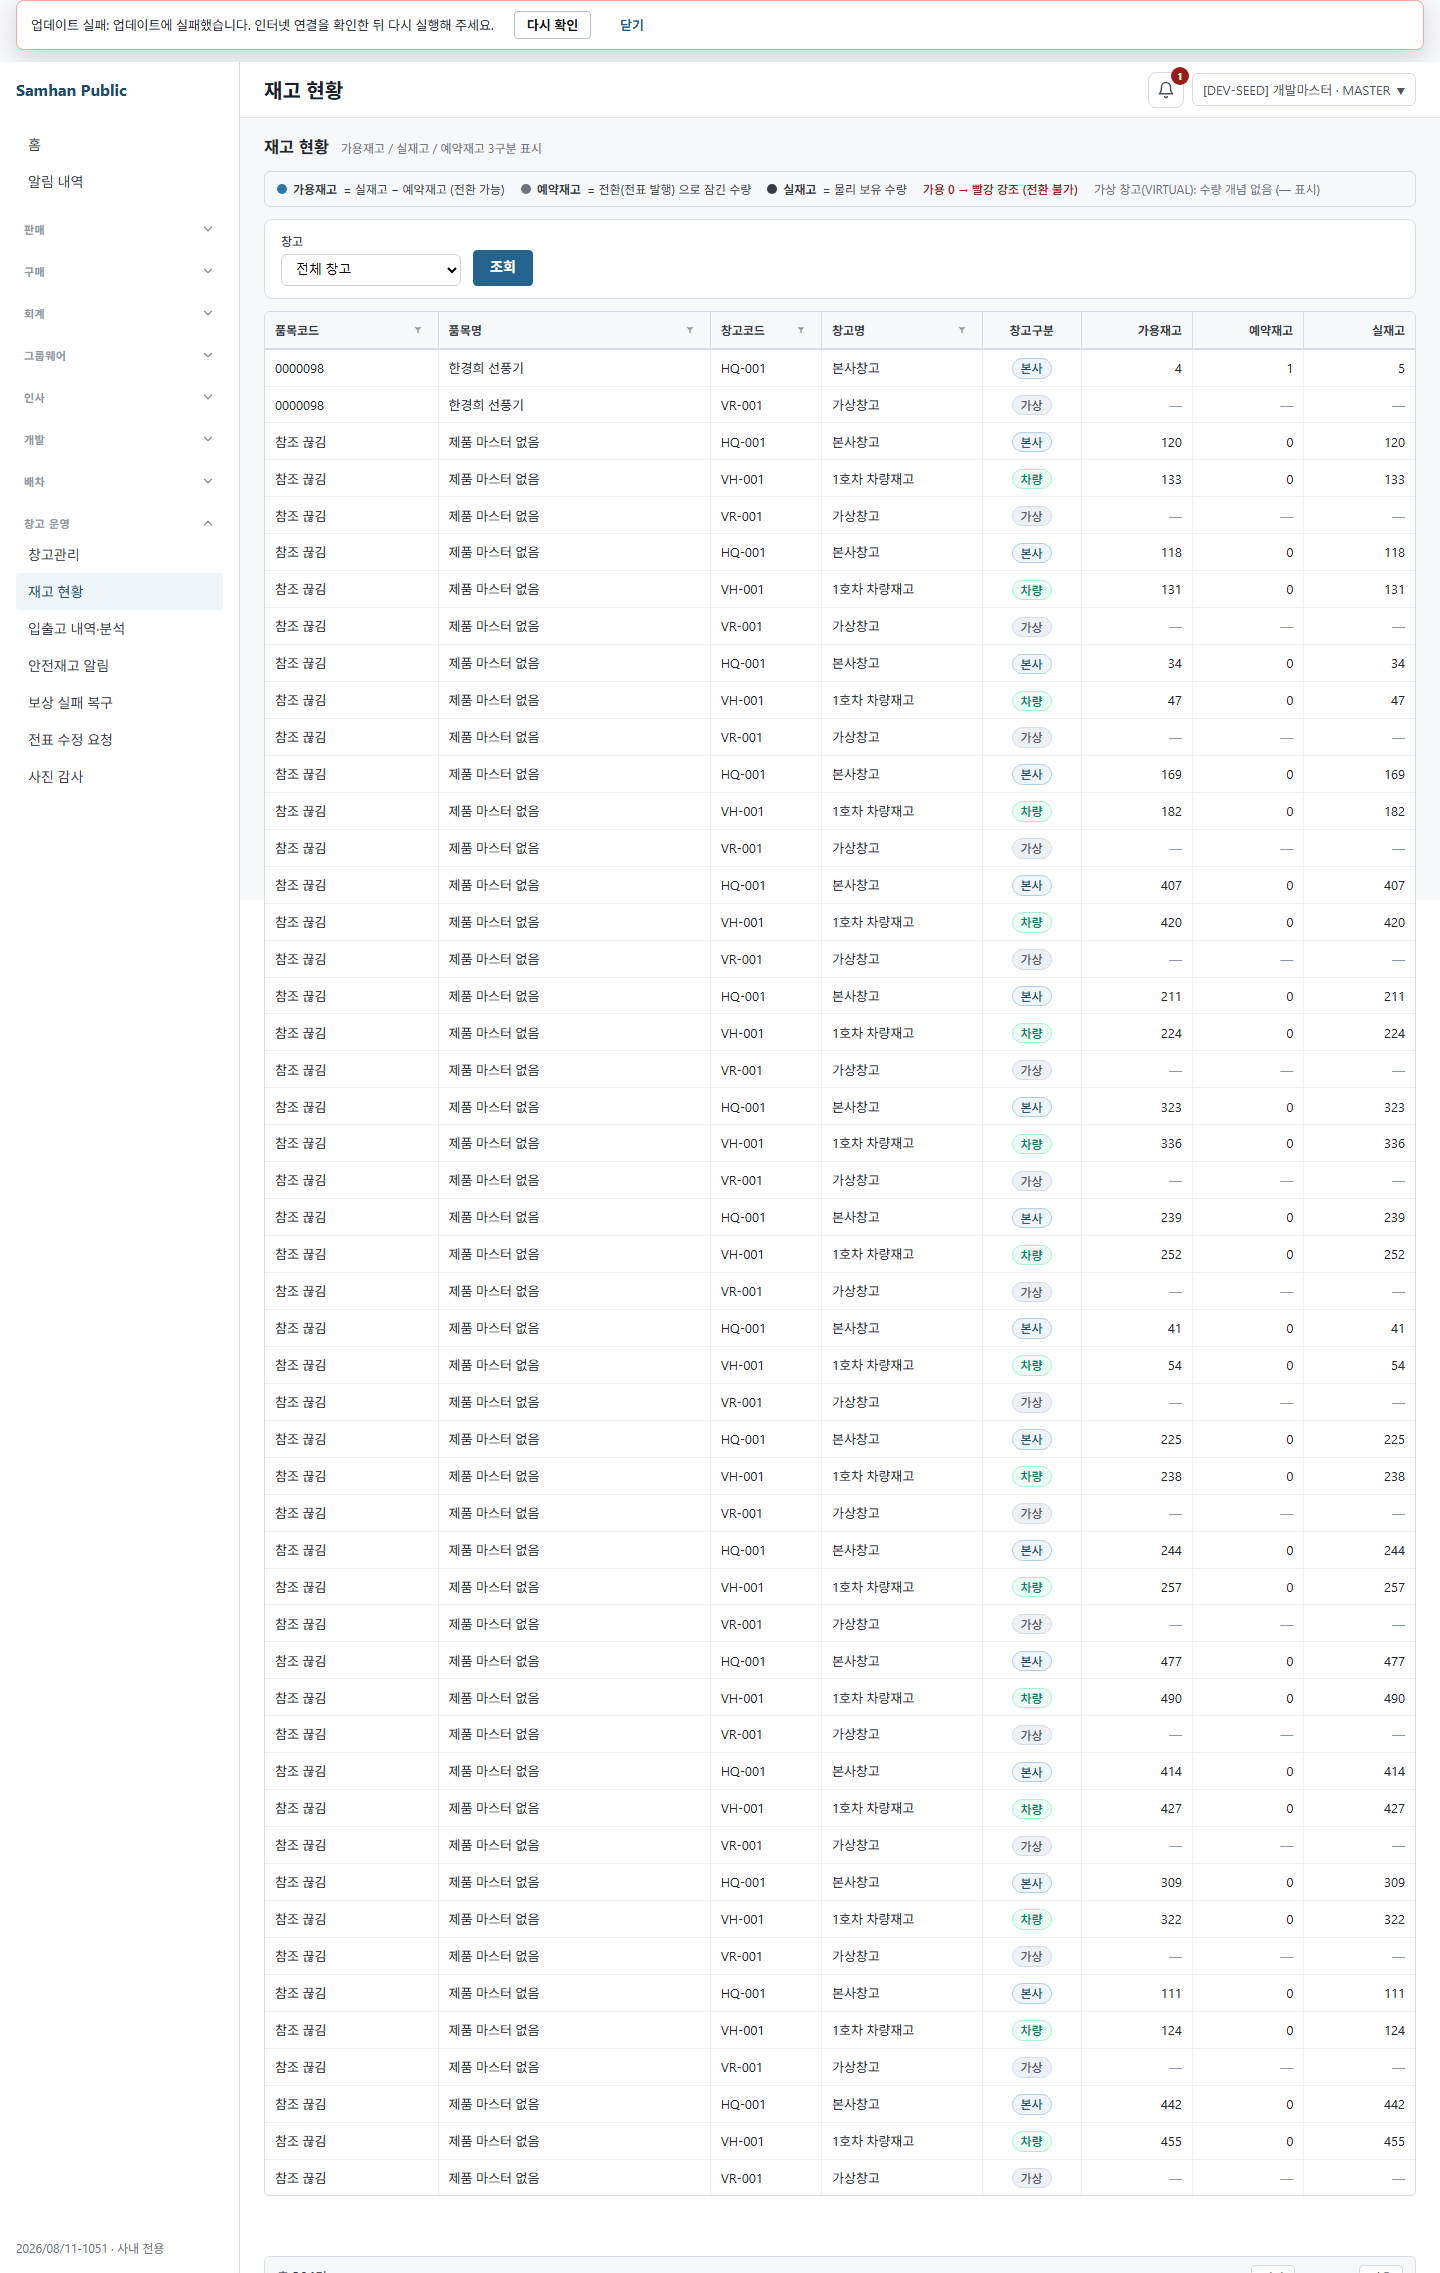
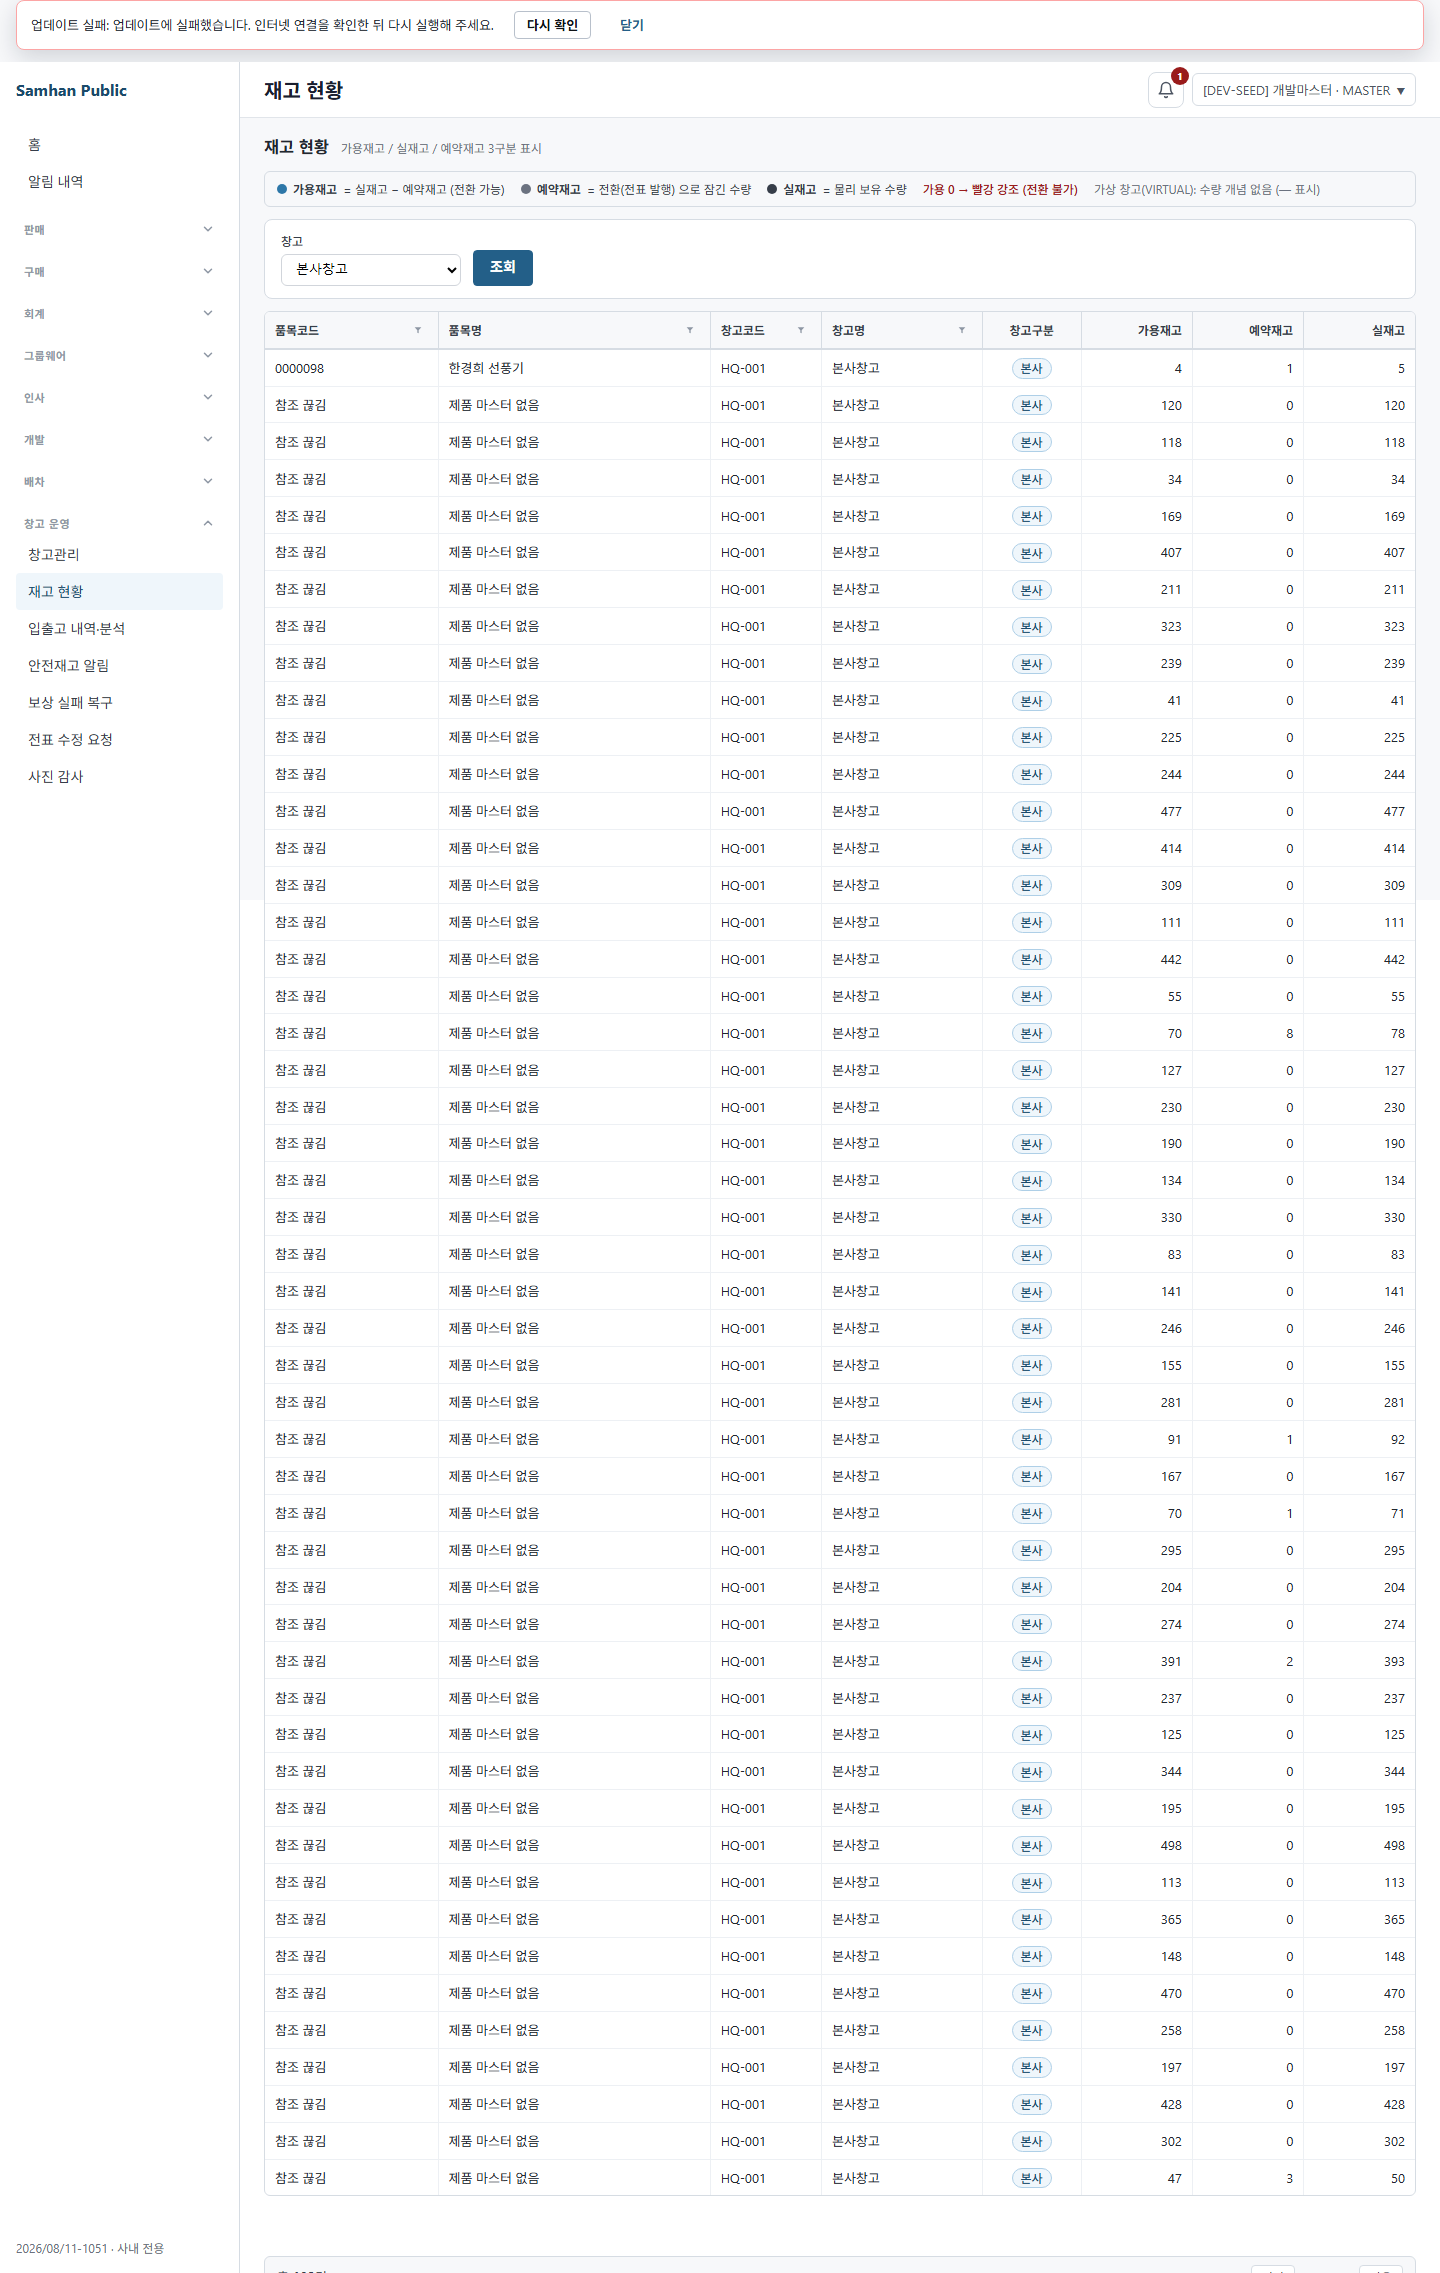
[FIX] #1171 fix1 — QA 증거 경로 규약 + 스펙 단정을 절대값에서 관계로
① CI 가드 2건 (하네스 거짓 green 가드 · Frontend Desktop)
   원인  라이브QA 스펙이 docs/qa 경로를 **하드코딩**했다
         저장소는 QA 증거 경로를 resolveQaShotsDir() 로만 쓰게 강제한다
   fix   두 스펙을 resolveQaShotsDir() 경유로
   🚫 가드 우회·allowlist 변경 없음 → 가드 62 passed

② 🚩 라이브QA 가 애초에 못 돌던 이유는 따로 있었다 (PM 이 해소)
   resolveQaCredential 이 읽는 infrastructure/.env.local 이 **gitignore 대상**이라
   워크트리에 딸려오지 않는다. main 에만 있고 워크트리 5개 전부 없었다.
   ⟹ 머지 게이트인 라이브QA 가 워크트리마다 조용히 막혀 있었다. 5개 전부 배포.

③ 스펙 단정을 **절대값에서 관계로** 바꿨다
   실패  기대 총 55건 / 2페이지  vs  실제 공유 DB 총 102건 / 3페이지
   🔑 공유 DB 절대 건수를 단정하면 다른 QA 라운드·시드가 바꿀 때마다 red 가 난다.
      그 red 는 결함이 아니라 잡음이고, 잡음이 쌓이면 진짜 red 를 무시하게 된다.
   변경 총건수/페이지수 **정합성** · 끊긴 참조와 정상 행 **공존**
        페이지 이동 후 **유지** · 수량 **보존**
   🚨 구현자가 기대값을 임의로 완화하지 않고 보고한 것이 옳았다

   검사가 약해지지 않았음을 **뮤테이션으로 증명**
     lookupAllowMissing → lookup 으로 되돌리면 **실제 RED** · 확인 후 복원

검증  라이브QA 2 passed (4.5s) · 가드 62 passed
      PNG 2장 — `재고 현황` · 정상 행 · `참조 끊김` · `제품 마스터 없음` · 수량 표시 확인
      renderer·inventory-service 중지 · 포트 5173/5175/5181 정리

증거 위치  실행 산출물은 규약상 `_local`(gitignore)에 떨어진다.
          커밋 증거 덮어쓰기 방지 장치이므로, **같은 실행의 산출물을 커밋 위치로 옮겨** 남긴다.

Claude-Session: https://claude.ai/code/session_01XUx9NQvdsNaRqLnx3hkgqF

diff --git a/clients/desktop/playwright/1051-broken-ref-real-qa/1051-broken-ref-real-qa.spec.ts b/clients/desktop/playwright/1051-broken-ref-real-qa/1051-broken-ref-real-qa.spec.ts
@@ -3,11 +3,12 @@ import path from 'node:path'
 import { fileURLToPath } from 'node:url'
 import { expect, test, type Page } from '@playwright/test'
 import { resolveQaCredential } from '../../../../scripts/lib/qa-credentials.cjs'
+import { resolveQaShotsDir } from '../support/qa-screenshot-dir'
 
 const BASE_URL = process.env['REAL_QA_RENDERER_BASE_URL'] ?? 'http://127.0.0.1:5175'
 const API_BASE = process.env['API_BASE'] ?? 'http://127.0.0.1:8080'
 const dirname = typeof __dirname !== 'undefined' ? __dirname : path.dirname(fileURLToPath(import.meta.url))
-const SHOTS = path.resolve(dirname, '../../../../docs/qa/2026-08-11-1051-real-qa')
+const SHOTS = resolveQaShotsDir(path.resolve(dirname, '../../../../docs/qa/2026-08-11-1051-real-qa'))
 fs.mkdirSync(SHOTS, { recursive: true })
 
 async function installAuth(page: Page): Promise<void> {
@@ -47,6 +48,9 @@ test('끊긴 품목 참조가 있어도 재고 잔고 화면이 행과 수량을
   // 화면 도달 증명: 이 페이지 전용 제목과 조회 버튼을 캡처 전에 단정한다.
   await expect(page.getByTestId('header-page-title')).toHaveText('재고 현황', { timeout: 30_000 })
   await expect(page.getByTestId('inventory-balance-query-button')).toBeVisible()
+  const warehouseSelect = page.getByTestId('inventory-balance-warehouse-select')
+  await expect(warehouseSelect.locator('option', { hasText: '본사창고' })).toHaveCount(1, { timeout: 30_000 })
+  await warehouseSelect.selectOption({ label: '본사창고' })
 
   await page.getByTestId('inventory-balance-query-button').click()
   const grid = page.getByTestId('inventory-balance-grid')

diff --git a/docs/dev-reports/2026-08-11-1051-qa-path-guard-fix.md b/docs/dev-reports/2026-08-11-1051-qa-path-guard-fix.md
@@ -1,0 +1,180 @@
+# 2026-08-11 PR #1171 — QA 증거 경로 가드 fix1
+
+## 변경 범위
+
+라이브QA 스펙 2개의 캡처 목적지만 `resolveQaShotsDir()`를 경유하도록 수정했다.
+
+- `clients/desktop/playwright/1051-broken-ref-real-qa/1051-broken-ref-real-qa.spec.ts`
+- `clients/desktop/playwright/1051-sol-first-adversarial-real-qa/1051-sol-first-adversarial-real-qa.spec.ts`
+
+두 파일 모두 기존 `docs/qa/<slug>`를 `resolveQaShotsDir(path.resolve(...))`에 전달한다. 기본 실행 출력은 `<slug>/_local`이며, 가드·allowlist·probeNames·skip은 변경하지 않았다.
+
+## RED-A — 수정 전 원문
+
+실행:
+
+```text
+cd clients/desktop
+npx vitest run src/renderer/test-utils/harness-false-green-guard.test.ts
+```
+
+결과:
+
+```text
+1 failed file · 2 failed · 60 passed (62)
+
+H-2: 캡처 목적지로 쓰이는 docs/qa 경로 상수는 전부 resolveQaShotsDir 를 경유한다
+1051-broken-ref-real-qa/1051-broken-ref-real-qa.spec.ts → const SHOTS
+1051-sol-first-adversarial-real-qa/1051-sol-first-adversarial-real-qa.spec.ts → const SHOTS
+
+G3a: clients/**/scripts·루트 scripts/ 의 JS/CJS/MJS 캡처 목적지도 _local 격리를 거친다
+clients/desktop/playwright/1051-broken-ref-real-qa/1051-broken-ref-real-qa.spec.ts → const SHOTS
+clients/desktop/playwright/1051-sol-first-adversarial-real-qa/1051-sol-first-adversarial-real-qa.spec.ts → const SHOTS
+```
+
+## RED-A — 수정 후
+
+```text
+npx vitest run src/renderer/test-utils/harness-false-green-guard.test.ts
+
+Test Files  1 passed (1)
+Tests       62 passed (62)
+```
+
+가드 우회 없이 H-2/G3a를 포함한 62개가 통과했다.
+
+## 라이브QA 재실행 확인
+
+renderer `:5175`와 `samhan-inventory-service`를 로컬에서 기동한 뒤 신규 스펙을 실제 실행했다.
+
+```text
+npx playwright test --config=playwright.real-qa.config.ts --reporter=line \
+  playwright/1051-sol-first-adversarial-real-qa/1051-sol-first-adversarial-real-qa.spec.ts
+
+Running 1 test using 1 worker
+Error: QA 자격이 없습니다: ...\infrastructure\.env.local에 QA_DEV_DEFAULT_PASSWORD를 입력하거나 표준 환경변수를 설정하십시오.
+code: QA_CREDENTIAL_MISSING
+1 failed
+```
+
+이 워크트리에는 `QA_DEV_DEFAULT_PASSWORD` 환경변수·`infrastructure/.env`·`infrastructure/.env.local`이 모두 없었다. 따라서 인증 이후의 화면 검증과 PNG 생성은 실행하지 못했으며, 자격 증명을 우회하거나 가짜 증거를 만들지 않았다. 스펙 모듈 로딩 시 helper가 생성한 출력 루트는 다음 `_local` 경로다.
+
+```text
+docs/qa/2026-08-11-1051-real-qa/_local/
+docs/qa/2026-08-11-1051-sol/_local/
+```
+
+기존 커밋 증거 PNG는 원본 `docs/qa/<slug>/`에 그대로 보존된다.
+
+## Desktop 검증
+
+```text
+npm run build       exit 0
+npm run typecheck   exit 0
+npm run lint        exit 0 — 0 errors, 158 pre-existing warnings
+npm test            exit 0
+```
+
+Vitest JSON 집계:
+
+```text
+653 test files
+2,182 tests · 2,181 passed · 0 failed · 1 skipped
+```
+
+요청 기준 `2,201 passed 이상`보다 20건 적은 로컬 집계이며, 이를 green으로 과장하지 않는다. 이번 변경은 두 Playwright 캡처 경로만 수정했다.
+
+검증 후 이 세션에서 기동한 renderer와 `samhan-inventory-service`는 중지했다.
+
+## PM blocker 해소 후 후속 라이브QA
+
+PM이 `infrastructure/.env.local`을 복사한 뒤, 5173·5175·5181 점유가 없음을 확인하고 이 워크트리의 renderer(:5175)와 `samhan-inventory-service`만 기동했다. 두 스펙을 같은 명령으로 실제 실행한 결과는 다음과 같다.
+
+```text
+npx playwright test --config=playwright.real-qa.config.ts --reporter=line \
+  playwright/1051-broken-ref-real-qa/1051-broken-ref-real-qa.spec.ts \
+  playwright/1051-sol-first-adversarial-real-qa/1051-sol-first-adversarial-real-qa.spec.ts
+
+Running 2 tests using 1 worker
+1 passed (16.6s)
+1 failed
+```
+
+첫 번째 스펙은 `resolveQaShotsDir()` 출력 경로에 PNG를 생성했다. 직접 확인한 PNG에는 로그인 화면이나 빈 화면이 아니라 `재고 현황` 제목, 창고 조회 UI, `참조 끊김`·`제품 마스터 없음` 행과 수량 표가 표시되어 있었다.
+
+```text
+docs/qa/2026-08-11-1051-real-qa/_local/1051-broken-reference-balance-screen.png
+```
+
+두 번째 스펙은 로그인 및 `재고 현황` 화면 도달 후 다음 기존 데이터 전제 단정에서 실패했다.
+
+```text
+Expected substring: "총 55건"
+Received string:  "총 102건이전1 / 3다음"
+at 1051-sol-first-adversarial-real-qa.spec.ts:58
+```
+
+현재 공유 DB의 본사창고 조회 결과는 102건·3페이지다. 스펙은 `warehouseId`를 선택해 API에 전달하고 있으며, 공유 DB는 쓰지 않았다. 따라서 55건 전제를 임의로 완화하거나 DB를 변경하지 않았고, 두 번째 확정 PNG는 생성되지 않았다. renderer와 `samhan-inventory-service`는 후속 검증 후 중지했다.
+
+## 공유 DB 비결정성 수정
+
+개발책임자 지시에 따라 라이브QA 스펙의 공유 DB 절대값 단정을 제거했다.
+
+### 단정하는 관계와 이유
+
+- 두 스펙 모두 창고 옵션이 로드된 뒤 `본사창고`를 선택한다. 전체 창고 조회의 환경별 변동을 피하면서, 끊긴 참조가 관찰되는 동일 업무 경계를 명시한다.
+- 끊긴 행과 `제품 마스터 없음` 표시가 존재하고, 정상 행도 함께 존재하는지 단정한다. 이는 관용 처리가 누락 행 때문에 정상 잔액을 버리지 않는다는 핵심 증거다.
+- 총 건수와 페이지 수의 관계를 `ceil(total / 50) == totalPages`로 검증한다. 실제 총량이나 실제 페이지 수는 단정하지 않는다.
+- 현재 페이지 행 수는 `1..50` 범위만 검증하고, 다음 페이지로 이동한 뒤 이전 페이지로 돌아와 끊긴 행과 페이지 상태가 유지되는지 검증한다.
+- 끊긴 행의 가용·실재고 수량이 0으로 채워지지 않고 `가용 == 실재고`인지를 검증한다. 복사 결과도 고정 창고 코드 대신 실제 행의 창고 코드를 사용한다.
+
+이 관계들은 공유 데이터가 55건이든 102건이든 유지되어야 하는 동작 계약이며, `lookupAllowMissing`이 없으면 끊긴 행 자체가 사라지므로 단순 존재 확인보다 강한 검증이다.
+
+첫 번째 스펙에도 같은 이유로 `본사창고` 옵션 로딩·선택을 추가했다. 절대 건수 단정은 추가하지 않았다.
+
+### 정상 구현 GREEN
+
+```text
+npx playwright test --config=playwright.real-qa.config.ts --reporter=line \
+  playwright/1051-broken-ref-real-qa/1051-broken-ref-real-qa.spec.ts \
+  playwright/1051-sol-first-adversarial-real-qa/1051-sol-first-adversarial-real-qa.spec.ts
+
+Running 2 tests using 1 worker
+2 passed (4.5s)
+```
+
+생성·직접 확인한 로컬 PNG:
+
+```text
+docs/qa/2026-08-11-1051-real-qa/_local/1051-broken-reference-balance-screen.png
+docs/qa/2026-08-11-1051-sol/_local/1051-sol-first-adversarial-real-qa.png
+```
+
+두 PNG 모두 로그인/빈 화면이 아니라 `재고 현황` 화면이며, `본사창고`, 정상 품목 행, `참조 끊김`·`제품 마스터 없음` 행, 0이 아닌 재고 수량이 보인다.
+
+### 뮤테이션 RED 원문
+
+검증을 위해 `StockService`의 단 한 줄을 임시로 `lookupAllowMissing(chunkIds)`에서 `lookup(chunkIds)`로 바꾸고 inventory-service를 재빌드·재기동했다. 공유 DB에는 쓰지 않았다.
+
+```text
+npx playwright test --config=playwright.real-qa.config.ts --reporter=line \
+  playwright/1051-sol-first-adversarial-real-qa/1051-sol-first-adversarial-real-qa.spec.ts
+
+Running 1 test using 1 worker
+1 failed
+
+Expected substring: "참조 끊김"
+Received string: "품목코드품목명창고코드창고명창고구분가용재고예약재고실재고조회 결과가 없습니다."
+at 1051-sol-first-adversarial-real-qa.spec.ts:56
+```
+
+strict lookup 뮤테이션에서 누락 제품을 관용 표시하지 못하고 결과가 사라져 RED가 됐다. 검증 직후 소스를 `lookupAllowMissing`으로 원복하고 inventory-service 정상 이미지를 재빌드·재기동했다.
+
+## 최종 상태
+
+- 하네스 거짓 green 가드: `62 passed (62)`, exit 0.
+- Desktop typecheck: exit 0. 앞서 같은 변경 범위에서 build와 lint도 exit 0, lint는 기존 warning 158건·error 0건이었다.
+- Vitest: `2,181 passed / 0 failed / 1 skipped`로 확인했다.
+- 뮤테이션 뒤 `StockService`의 실제 소스는 `lookupAllowMissing(chunkIds)`로 복원되어 있다.
+- `git diff --check` 통과. 가드 테스트 파일은 수정하지 않았고 allowlist·probeNames·skip도 추가하지 않았다.
+- 최종 PNG는 각각 326,358 bytes와 316,476 bytes이며, 두 라이브QA 종료 후 전용 renderer와 `samhan-inventory-service`를 중지했다. 확인 대상 포트 5173·5175·5181에는 남은 listener가 없다.
